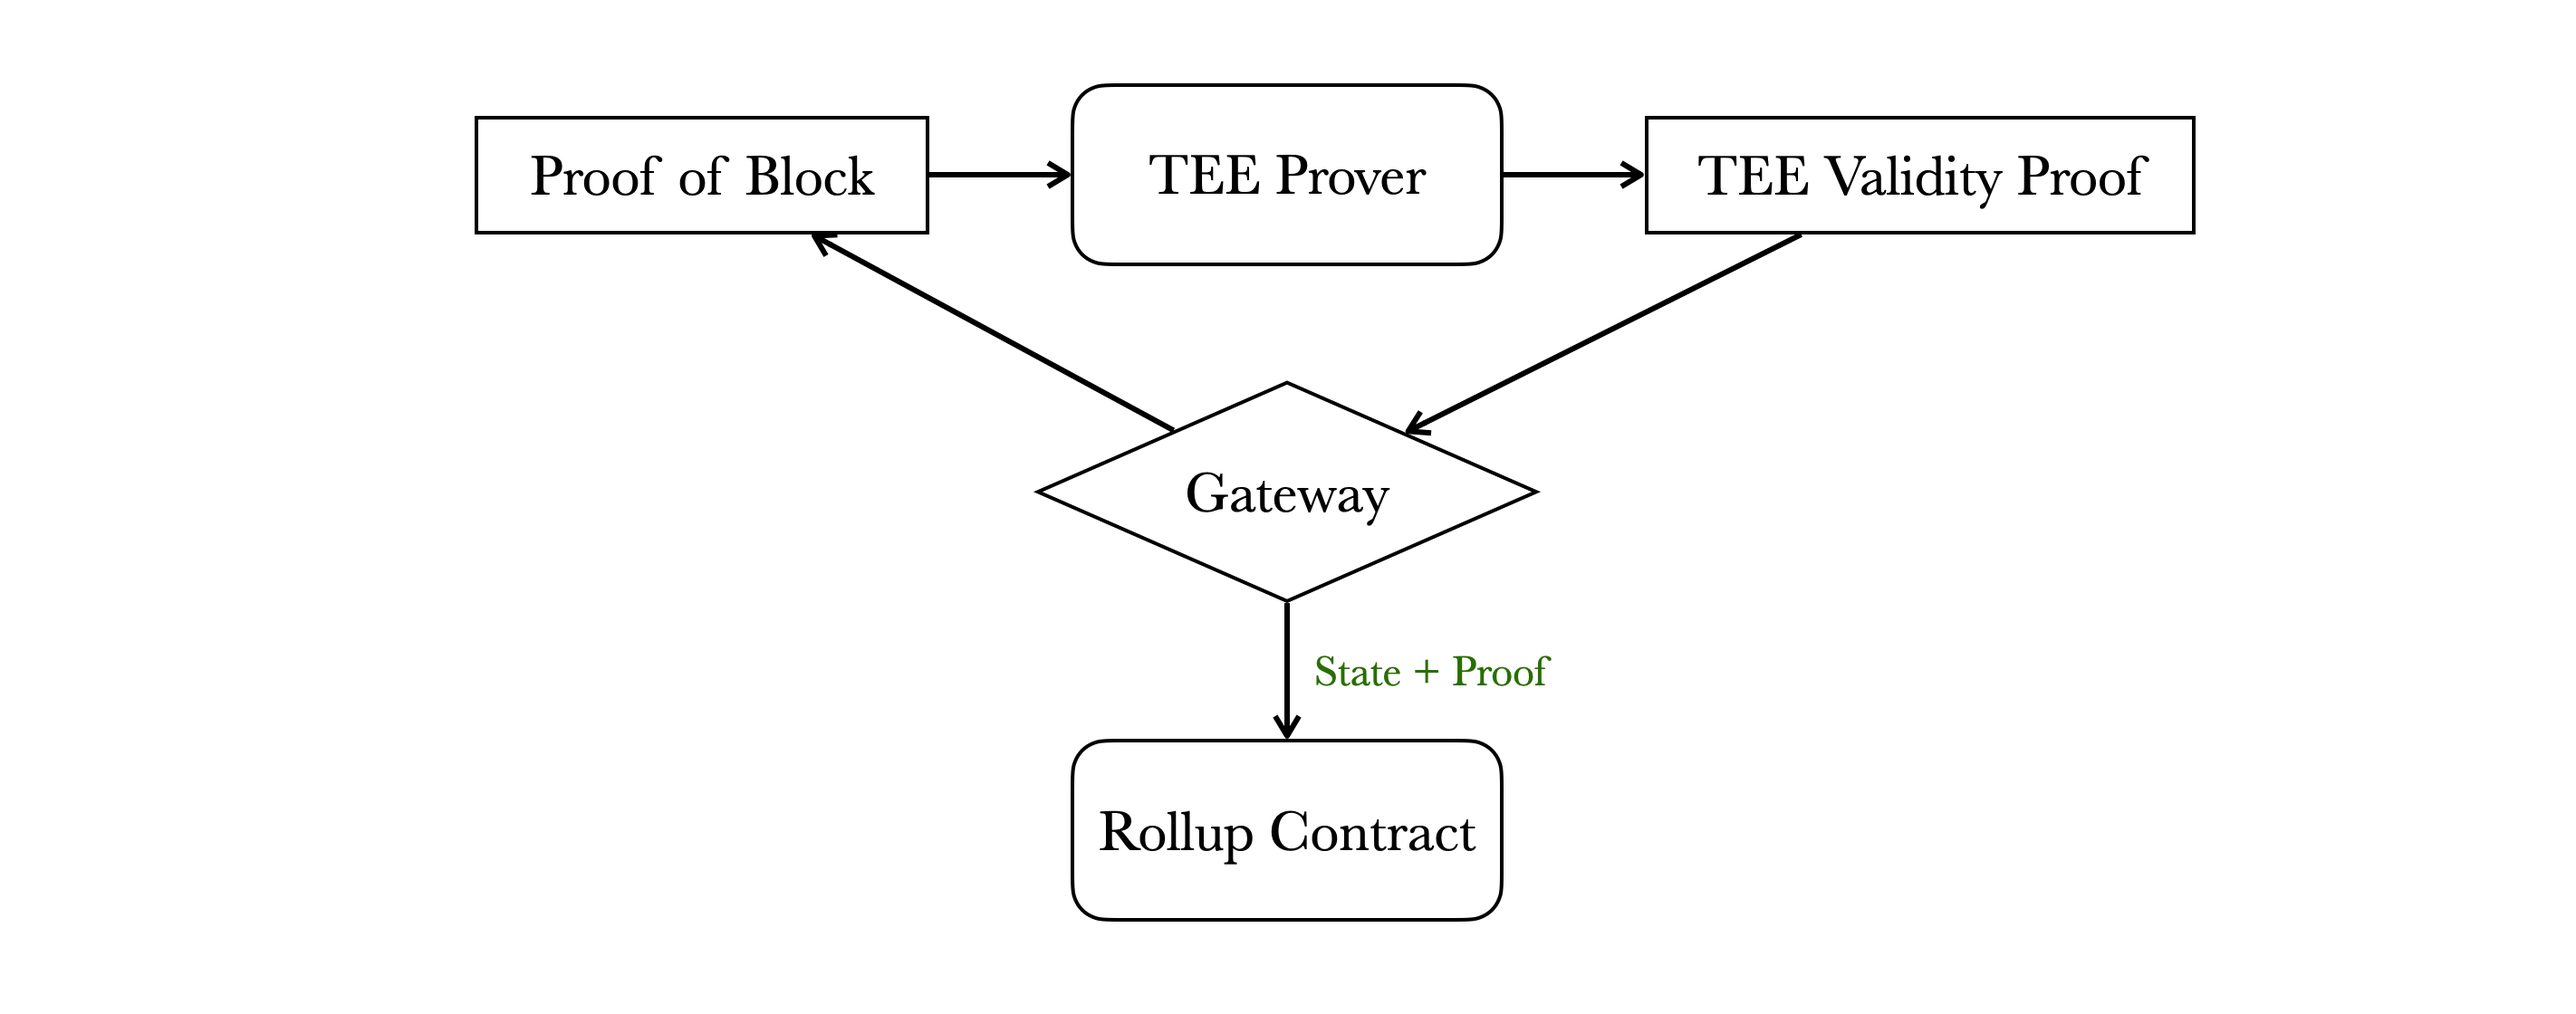
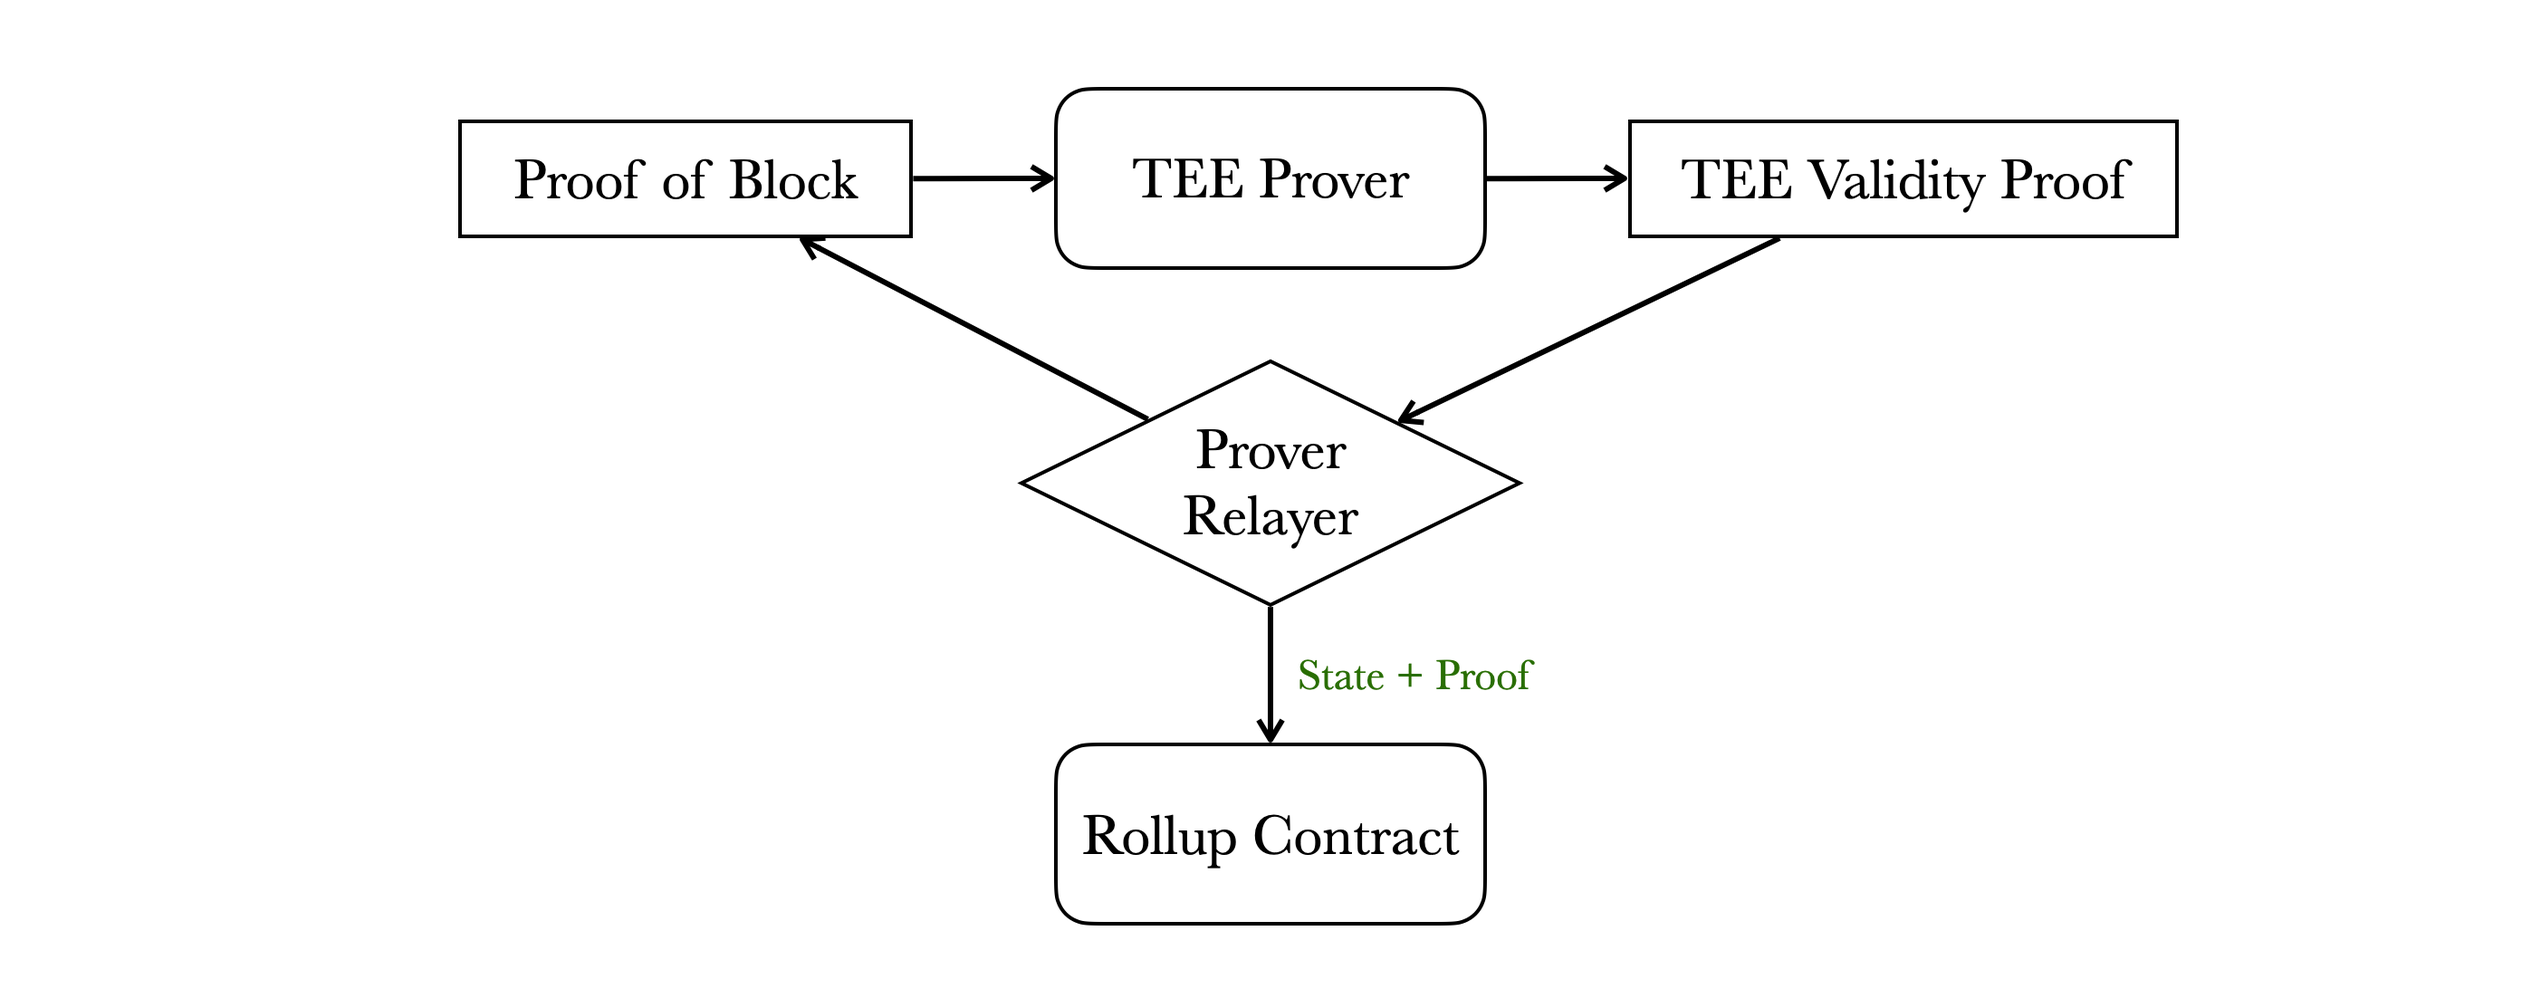
rename to prover relayer

diff --git a/docs/tee-multi-prover.md b/docs/tee-multi-prover.md
@@ -16,9 +16,9 @@ We propose implementing an additional prover system by leveraging Trusted Execut
 ![Brief Overview](/img/tee-multi-prover/overview.png)
 
 This diagram illustrates how the TEE Validity Proof interacts with the L1 rollup contract:
-	1.	Whenever the gateway needs to update the rollup state on L1, it sends a Proof of Block to the TEE Prover. The Proof of Block contains all the necessary states, enabling the TEE Prover to perform stateless state transitions.
-	2.	The TEE Prover executes the blocks based on the Proof of Block and generates a TEE Validity Proof, which is then returned to the gateway.
-	3.	The gateway submits the updated state along with the proofs to the L1 Rollup Contract.
+	1.	Whenever the prover relayer needs to update the rollup state on L1, it sends a Proof of Block to the TEE Prover. The Proof of Block contains all the necessary states, enabling the TEE Prover to perform stateless state transitions.
+	2.	The TEE Prover executes the blocks based on the Proof of Block and generates a TEE Validity Proof, which is then returned to the prover relayer.
+	3.	The prover relayer submits the updated state along with the proofs to the L1 Rollup Contract.
 
 ## The Case for Using TEEs
 
